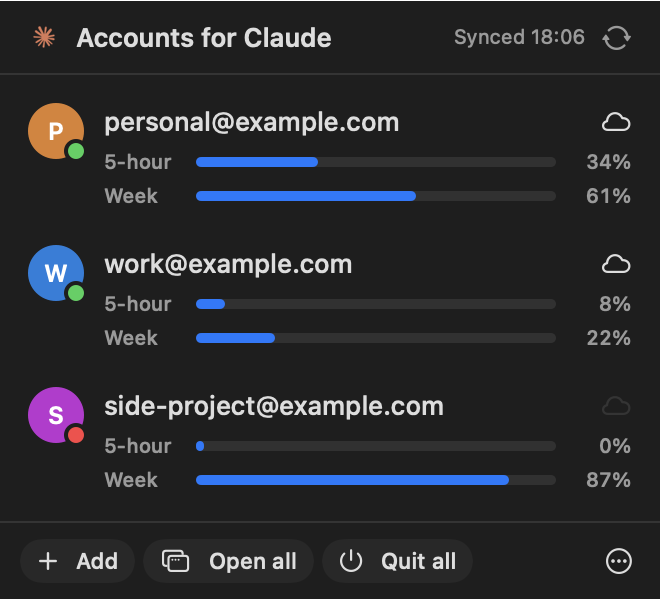
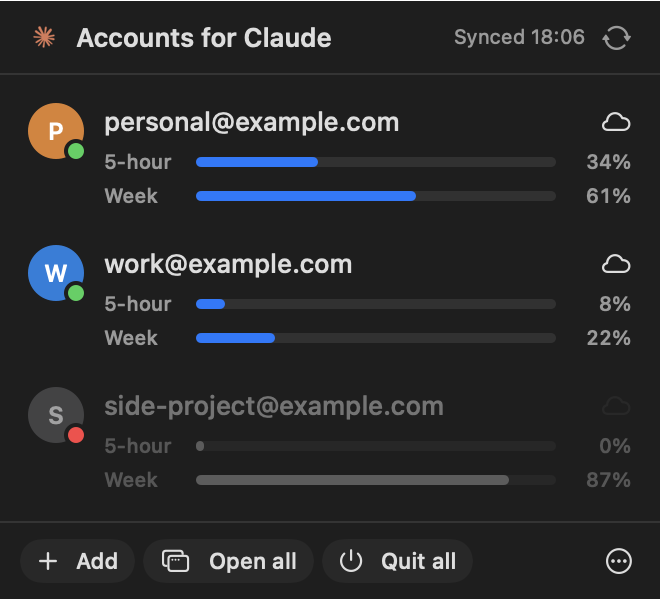
Grey out stopped accounts so they look switched off
A stopped account's card fades, its avatar and usage bars turn grey, and
only the red status dot keeps its colour. Uses explicit grey fills rather
than a saturation filter, which not every drawing path applies.

diff --git a/Sources/main.swift b/Sources/main.swift
@@ -443,6 +443,8 @@ struct AccountRow: View {
                 .frame(height: 18)
                 details
             }
+            // A stopped account looks switched off: no colour, faded.
+            .opacity(profile.isRunning ? 1 : 0.45)
         }
         .padding(.horizontal, 8).padding(.vertical, 8)
         .background(RoundedRectangle(cornerRadius: 8).fill(Color.primary.opacity(hovering ? 0.07 : 0)))
@@ -477,8 +479,8 @@ struct AccountRow: View {
             Text("Not signed in").font(.system(size: 11)).foregroundStyle(.secondary)
         } else if let usage = profile.usage {
             VStack(alignment: .leading, spacing: 4) {
-                UsageBar(label: "5-hour", percent: usage.fiveHour, resets: usage.fiveHourResets)
-                UsageBar(label: "Week", percent: usage.week, resets: usage.weekResets)
+                UsageBar(label: "5-hour", percent: usage.fiveHour, resets: usage.fiveHourResets, active: profile.isRunning)
+                UsageBar(label: "Week", percent: usage.week, resets: usage.weekResets, active: profile.isRunning)
                 if !usage.isLive {
                     // Only shown when live failed: say how old the number is, and why.
                     Text("Saved \(usage.updated.formatted(date: .omitted, time: .shortened))"
@@ -501,6 +503,7 @@ struct UsageBar: View {
     let label: String
     let percent: Int
     var resets: Date? = nil
+    var active = true       // false for a stopped account: grey fill
 
     private var resetsText: String {
         guard let resets else { return "\(label): \(percent)% used" }
@@ -519,7 +522,7 @@ struct UsageBar: View {
             GeometryReader { geo in
                 ZStack(alignment: .leading) {
                     Capsule().fill(Color.primary.opacity(0.1))
-                    Capsule().fill(usageTint(percent))
+                    Capsule().fill(active ? usageTint(percent) : Color.secondary)
                         .frame(width: max(4, geo.size.width * CGFloat(min(max(percent, 0), 100)) / 100))
                 }
             }
@@ -547,11 +550,14 @@ struct Avatar: View {
 
     var body: some View {
         ZStack(alignment: .bottomTrailing) {
-            Circle().fill(color.opacity(0.85))
+            Circle().fill(running ? color.opacity(0.85) : Color.gray.opacity(0.6))
                 .frame(width: 28, height: 28)
                 .overlay(Text(text.first.map { String($0).uppercased() } ?? "?")
                     .font(.system(size: 12, weight: .semibold))
                     .foregroundStyle(.white))
+                // Switched off with the rest of the card; the status dot below
+                // keeps its colour, so "stopped" still reads at a glance.
+                .opacity(running ? 1 : 0.5)
             // Always shown, so a closed account reads as "stopped", not as "unknown".
             Circle().fill(statusColor(running: running))
                 .frame(width: 10, height: 10)
